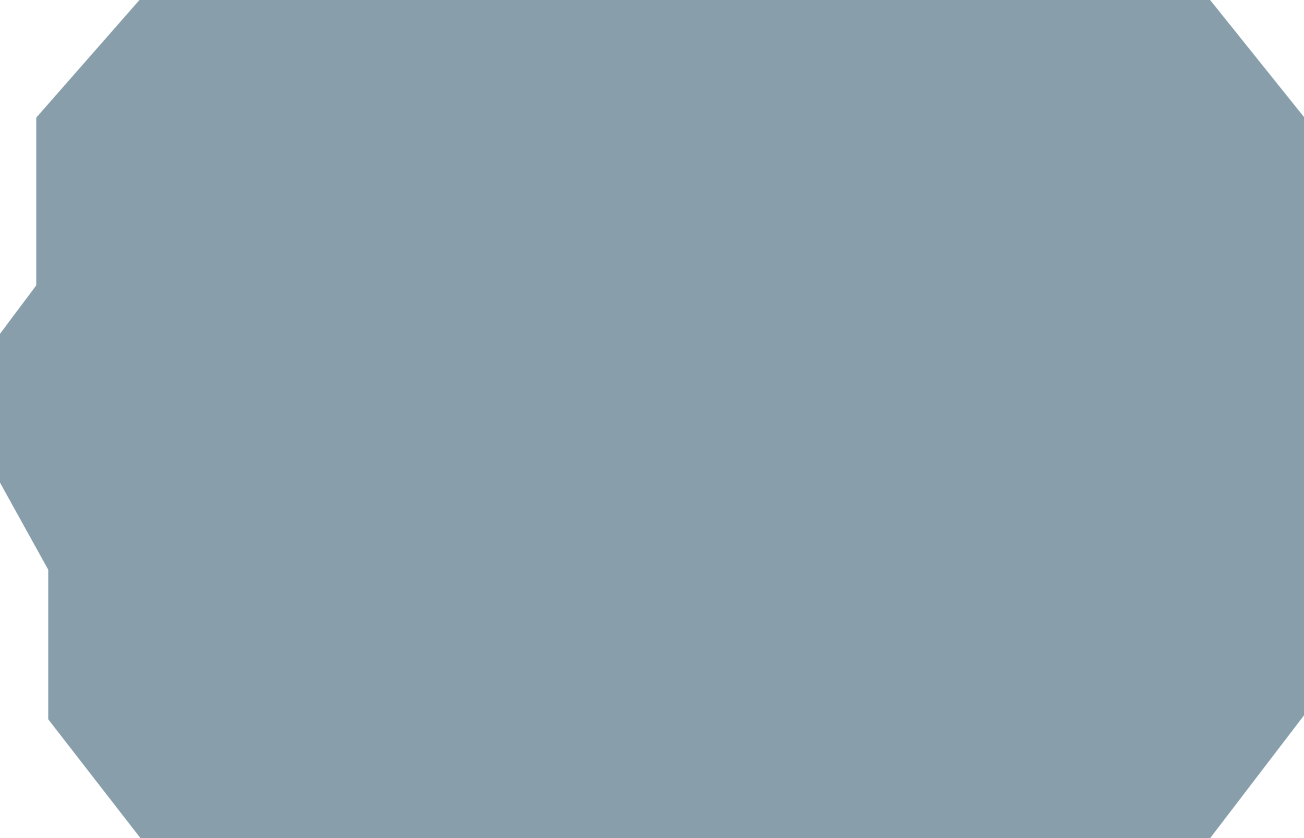
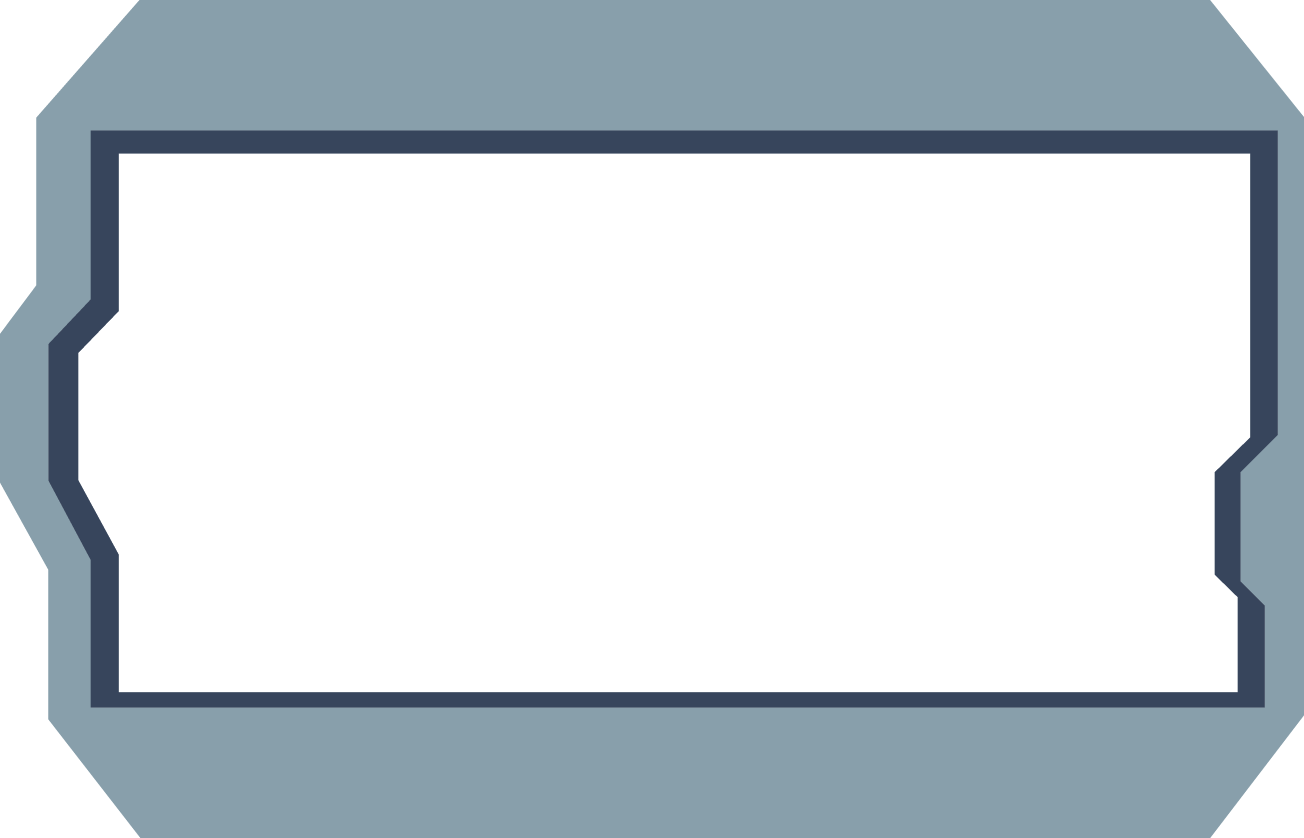
update panel

diff --git a/FlyingAnalyzeSystem/AR.Drone.WinApp/MyUserControl/InformationPanel.xaml b/FlyingAnalyzeSystem/AR.Drone.WinApp/MyUserControl/InformationPanel.xaml
@@ -6,18 +6,16 @@
              xmlns:myControl="clr-namespace:AR.Drone.WinApp.MyUserControl"
              mc:Ignorable="d" 
              d:DesignHeight="300" d:DesignWidth="500">
+    
     <Viewbox Stretch="Fill">
         <Grid>
-            <Grid.Background>
-                <ImageBrush ImageSource="../Image/InformationPage/InfoBackGround.png"/>
-            </Grid.Background>
-            
-            <Image Source="../Image/InformationPage/PlaneIdTitle.png" Margin="30,4,203,228"/>
-            <TextBlock Text="Drone-001" Foreground="White" Margin="60,18,0,0" HorizontalAlignment="Left" VerticalAlignment="Top"/>
-            <Image Source="../Image/InformationPage/ResultTitle.png" Margin="226,11,14,239"/>
-            <Image Source="../Image/InformationPage/Green.png" Margin="260,15,14,239" HorizontalAlignment="Center" VerticalAlignment="Center" Visibility="Hidden" x:Name="_okState"/>
-            <Image Source="../Image/InformationPage/Red.png" Margin="260,15,14,239" HorizontalAlignment="Center" VerticalAlignment="Center" Visibility="Hidden" x:Name="_noState"/>
-            <Image Source="../Image/InformationPage/InfoBackGround2.png" HorizontalAlignment="Center" VerticalAlignment="Center"/>
+            <Image x:Name="_mainImage"  Stretch="Fill" Width="465" Height="220"  Margin="25,40,15,40"/>
+            <Image Source="../Image/InformationPage/InfoBackGround.png" Stretch="Fill"/>
+            <Image Source="../Image/InformationPage/PlaneIdTitle.png" HorizontalAlignment="Left" VerticalAlignment="Top" Stretch="Fill" Margin="35,5,0,0" Width="230"/>
+            <TextBlock Text="Drone-001" Foreground="White" Margin="70,13,0,0" HorizontalAlignment="Left" VerticalAlignment="Top" FontSize="16"/>
+            <Image Source="../Image/InformationPage/ResultTitle.png" Margin="270,6,0,0" HorizontalAlignment="Left" VerticalAlignment="Top" Width="220" Stretch="Fill"/>
+            <Image Source="../Image/InformationPage/Green.png" Margin="320,0,14,250" HorizontalAlignment="Center" VerticalAlignment="Center" Visibility="Hidden" x:Name="_okState"/>
+            <Image Source="../Image/InformationPage/Red.png"  Margin="320,0,14,250" HorizontalAlignment="Center" VerticalAlignment="Center" Visibility="Hidden" x:Name="_noState"/>
             <Image Source="../Image/InformationPage/OptionTitle.png" HorizontalAlignment="Center" VerticalAlignment="Bottom" Margin="28,0,16,6"/>
             <myControl:ImageThreeStateButton NormalImagePath="../Image/InformationPage/YesButton.png" HorizontalAlignment="Center" VerticalAlignment="Bottom"
                                              HoverImagePath="../Image/InformationPage/YesButton.png"
@@ -25,10 +23,11 @@
             <myControl:ImageThreeStateButton NormalImagePath="../Image/InformationPage/NoButton.png" HorizontalAlignment="Center" VerticalAlignment="Bottom"
                                              HoverImagePath="../Image/InformationPage/NoButton.png"
                                              DownImagePath="../Image/InformationPage/NoButtonDown.png" Margin="290,0,0,15" OnClick="OnClickNoButton"/>
-            
-            <Viewbox Width="10" Height="10"  Margin="260,15,14,239" HorizontalAlignment="Center" VerticalAlignment="Center" x:Name="_progressBar">
+
+            <Viewbox Width="10" Height="10"  Margin="315,0,14,250" HorizontalAlignment="Center" VerticalAlignment="Center" x:Name="_progressBar">
                 <myControl:CircularProgressBar/>
             </Viewbox>
         </Grid>
     </Viewbox>
+    
 </UserControl>

diff --git a/FlyingAnalyzeSystem/AR.Drone.WinApp/MyUserControl/PlaneStatePanel.xaml b/FlyingAnalyzeSystem/AR.Drone.WinApp/MyUserControl/PlaneStatePanel.xaml
@@ -151,7 +151,7 @@
                 </StackPanel>
             </Grid>
 
-            <myControl:InformationPanel HorizontalAlignment="Center" VerticalAlignment="Center"/>
+            <myControl:InformationPanel HorizontalAlignment="Center" VerticalAlignment="Center" x:Name="_infoControl" Width="425" Height="278"/>
         </Grid>
     </Viewbox>
 

diff --git a/FlyingAnalyzeSystem/AR.Drone.WinApp/Forms/PlaneStateForm.cs b/FlyingAnalyzeSystem/AR.Drone.WinApp/Forms/PlaneStateForm.cs
@@ -25,6 +25,7 @@ namespace AR.Drone.WinApp.Forms
             _planeStatePanel.StartAutoPatrol += OnPlaneStatePanelStartAutoPatrol;
             DroneSingleton.InitializeDrone();
             _planeStateTimer.Enabled = true;
+            _videoUpdateTimer.Enabled = true;
         }
 
         protected override void OnClosed(EventArgs e)
@@ -97,10 +98,23 @@ namespace AR.Drone.WinApp.Forms
                     _retryConnectionTimes = 0;
                     _planeStateTimer.Enabled = false;
                     _planeStatePanel.NotShowChildPanel = true;
-                    MessageBox.Show("Please check connection of drone.", "error"); 
+                    MessageBox.Show("Please check connection of drone.", "error");
                 }
             }
 
+        }
+
+        private void _videoUpdateTimer_Tick(object sender, EventArgs e)
+        {
+            if (DroneSingleton._frame == null || DroneSingleton._frameNumber == DroneSingleton._frame.Number)
+                return;
+            DroneSingleton._frameNumber = DroneSingleton._frame.Number;
+
+            if (DroneSingleton._frameBitmap == null)
+                DroneSingleton._frameBitmap = VideoHelper.CreateBitmap(ref DroneSingleton._frame);
+            else
+                VideoHelper.UpdateBitmap(ref DroneSingleton._frameBitmap, ref DroneSingleton._frame);
+            _planeStatePanel._infoControl.RefreshMainImageBackground();
         }
     }
 }

diff --git a/FlyingAnalyzeSystem/AR.Drone.WinApp/Forms/PlaneStateForm.Designer.cs b/FlyingAnalyzeSystem/AR.Drone.WinApp/Forms/PlaneStateForm.Designer.cs
@@ -32,6 +32,7 @@
             this._planeStateTimer = new System.Windows.Forms.Timer(this.components);
             this._elementHost = new System.Windows.Forms.Integration.ElementHost();
             this._planeStatePanel = new AR.Drone.WinApp.MyUserControl.PlaneStatePanel();
+            this._videoUpdateTimer = new System.Windows.Forms.Timer(this.components);
             this.SuspendLayout();
             // 
             // _planeStateTimer
@@ -48,6 +49,11 @@
             this._elementHost.TabIndex = 0;
             this._elementHost.Text = "elementHost1";
             this._elementHost.Child = this._planeStatePanel;
+            // 
+            // _videoUpdateTimer
+            // 
+            this._videoUpdateTimer.Interval = 20;
+            this._videoUpdateTimer.Tick += new System.EventHandler(this._videoUpdateTimer_Tick);
             // 
             // PlaneStateForm
             // 
@@ -66,5 +72,6 @@
         private System.Windows.Forms.Integration.ElementHost _elementHost;
         private MyUserControl.PlaneStatePanel _planeStatePanel;
         private System.Windows.Forms.Timer _planeStateTimer;
+        private System.Windows.Forms.Timer _videoUpdateTimer;
     }
 }

diff --git a/FlyingAnalyzeSystem/AR.Drone.WinApp/MyUserControl/InformationPanel.xaml.cs b/FlyingAnalyzeSystem/AR.Drone.WinApp/MyUserControl/InformationPanel.xaml.cs
@@ -1,6 +1,7 @@
 using System;
 using System.Collections.Generic;
 using System.Linq;
+using System.Runtime.InteropServices;
 using System.Text;
 using System.Windows;
 using System.Windows.Controls;
@@ -32,6 +33,32 @@ namespace AR.Drone.WinApp.MyUserControl
         private void OnClickNoButton()
         {
 
+        }
+
+
+        [DllImport("gdi32")]
+        static extern int DeleteObject(IntPtr o);
+        public static BitmapSource loadBitmap(System.Drawing.Bitmap source)
+        {
+            IntPtr ip = source.GetHbitmap();
+            BitmapSource bs = null;
+            try
+            {
+                bs = System.Windows.Interop.Imaging.CreateBitmapSourceFromHBitmap(ip,
+                   IntPtr.Zero, Int32Rect.Empty,
+                   System.Windows.Media.Imaging.BitmapSizeOptions.FromEmptyOptions());
+            }
+            finally
+            {
+                DeleteObject(ip);
+            }
+
+            return bs;
+        }
+
+        public void RefreshMainImageBackground()
+        {
+            _mainImage.Source = loadBitmap(DroneSingleton._frameBitmap);
         }
     }
 }

diff --git a/FlyingAnalyzeSystem/AR.Drone.WinApp/MyUserControl/PlaneStatePanel.xaml.cs b/FlyingAnalyzeSystem/AR.Drone.WinApp/MyUserControl/PlaneStatePanel.xaml.cs
@@ -146,7 +146,7 @@ namespace AR.Drone.WinApp.MyUserControl
             _comboBox.ImageComboBoxItemSource = ComboBoxItemSource;
             _timer.Interval = 1000;
             _timer.Elapsed += ElapsedTimer;
-            LoadImageFromServer();
+           // LoadImageFromServer();
         }
 
         private void UpdatePanel()
@@ -421,6 +421,7 @@ namespace AR.Drone.WinApp.MyUserControl
 
         public void ShowInfoPanel()
         {
+            
         }
     }
 }
